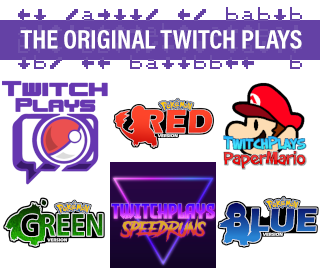
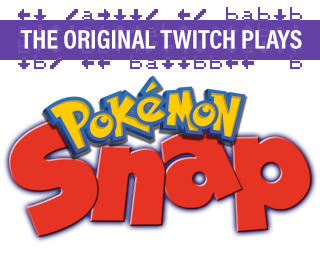
Pokemon Snap Intermission

diff --git a/description/active/runs/01 Header.md b/description/active/runs/01 Header.md
@@ -2,20 +2,11 @@ For questions about any **!** command, use **!help \[command name\]** to be whis
 
 The stream clock is in the UTC timezone, you can use [this](https://time.is/UTC) to calculate your delay.
 
-In Twitch Plays Pokémon \(TPP\), you can submit commands through the chat box and control the current game of **[Pokémon Red Green Blue Race](https://github.com/TwitchPlaysPokemon/pokerbg)**, where you race against two other streams, [TwitchPlaysSpeedruns](https://www.twitch.tv/twitchplaysspeedruns) and [TwitchPlaysPaperMario](https://www.twitch.tv/twitchplayspapermario).
+In Twitch Plays Pokémon \(TPP\), you can submit commands through the chat box and control the current game of **Pokémon Snap and some other N64 games**.
 
 **Credits for this run go to:**
 
-- M4_used_rollout - Overlay maker, game developer, game testing
-- JB0204 - Game testing
-- fenris2142 - Game testing
-- Ravendwyr - Game testing
-- FrostedGeulleisia - Game testing
-- You, the viewers - Game testing
-- TwitchPlaysSpeedruns' community - Competition, Game testing
-- TwitchPlaysPaperMario's community - Competition, Game testing
-- Legtendga - Run emblem
-- [brfa98](https://www.deviantart.com/brfa98/) - Custom Pokémon logos
-- WhatAboutGamingLive - Description
+- M4_used_rollout - Overlay maker, Text-to-speech implementation (Hey You, Pikachu only)
+- Aissurtievos - Hardware maker (N64 Controller)
 
 ***Note:*** *TPP collects and uses some data about your Twitch account so you can play. Find out what data we collect, how we collect it, and what we use it for by reading our privacy statement [here](https://github.com/TwitchPlaysPokemon/tpp-streamdocs/blob/master/privacy/privacy-statement.md).*

diff --git a/description/active/runs/02 Commands.md b/description/active/runs/02 Commands.md
@@ -2,8 +2,8 @@ For questions about any **!** command, use **!help \[command name\]** to be whis
 
 ## Available Commands
 
-- **Button commands**: **A, B, Start, Select**
-- **Directional commands**: **Up, Down, Left, Right**
+- **Button commands**: **A, B, L, Z, R, Start**
+- **Directional commands**: **Up, Down, Left, Right, Cup, Cdown, Cleft, Cright, Dup, Ddown, Dleft, Dright**
 
 ## Tips
 - Commands are not case sensitive - you can mix it up! For example, **StArT** will have the same effect as **start**.
